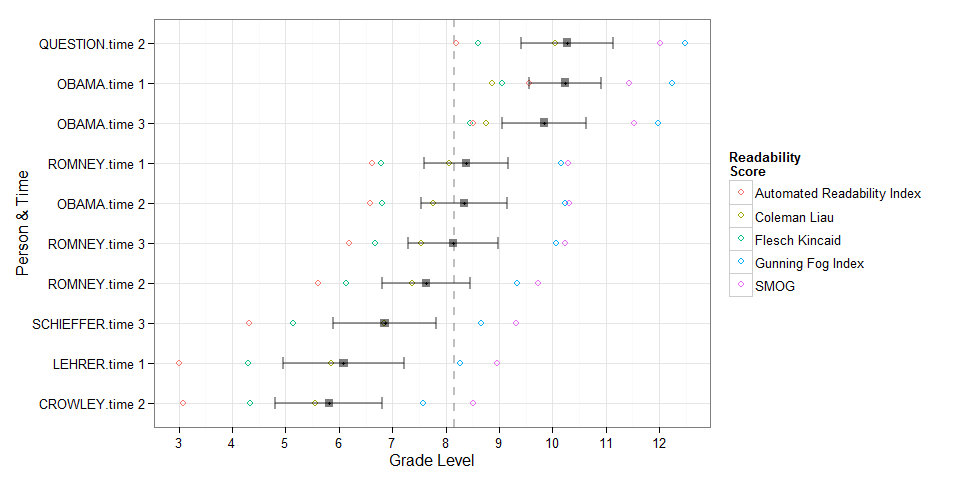
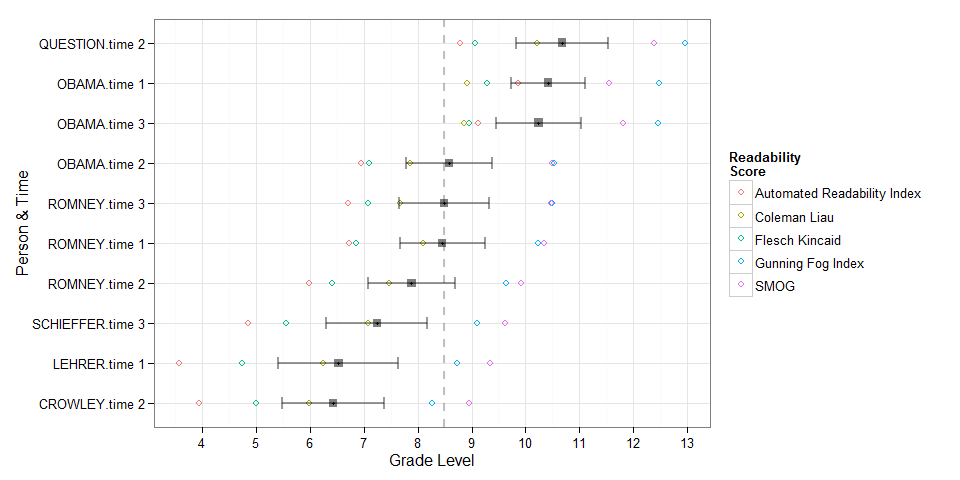
updated readme after switch to **NLP**/**openNLP** in **syllable**  Reference to: * `readability_word_stats` and `readability_word_stats_by` used **stringi**'s   sentence detection.  THis was not accurate as seen:   http://stackoverflow.com/q/31865511/1000343.  The package now utilizes   **NLP**/**o

diff --git a/README.md b/README.md
@@ -55,40 +55,30 @@ Examples
     if (!require("pacman")) install.packages("pacman")
     pacman::p_load(syllable, readability)
 
-    ## 
-    ## readability installed
-
-    ## Warning in FUN(X[[i]], ...): restarting interrupted promise evaluation
-
-    ## Warning in FUN(X[[i]], ...): internal error -3 in R_decompress1
-
-    ## Warning in pacman::p_load(syllable, readability): Failed to install/load:
-    ## readability
-
     (x <- with(presidential_debates_2012, readability(dialogue, list(person, time))))
 
     ##        person   time Flesch_Kincaid Gunning_Fog_Index Coleman_Liau SMOG
-    ##  1:  QUESTION time 2            8.6              12.5         10.1 12.0
-    ##  2:     OBAMA time 1            9.1              12.2          8.9 11.4
-    ##  3:     OBAMA time 3            8.5              12.0          8.8 11.5
-    ##  4:    ROMNEY time 1            6.8              10.2          8.1 10.3
-    ##  5:     OBAMA time 2            6.8              10.2          7.8 10.3
-    ##  6:    ROMNEY time 3            6.7              10.1          7.5 10.2
-    ##  7:    ROMNEY time 2            6.1               9.3          7.4  9.7
-    ##  8: SCHIEFFER time 3            5.1               8.7          6.8  9.3
-    ##  9:    LEHRER time 1            4.3               8.3          5.9  9.0
-    ## 10:   CROWLEY time 2            4.3               7.6          5.6  8.5
+    ##  1:  QUESTION time 2            9.1              13.0         10.2 12.4
+    ##  2:     OBAMA time 1            9.3              12.5          8.9 11.5
+    ##  3:     OBAMA time 3            8.9              12.5          8.9 11.8
+    ##  4:     OBAMA time 2            7.1              10.5          7.9 10.5
+    ##  5:    ROMNEY time 3            7.1              10.5          7.7 10.5
+    ##  6:    ROMNEY time 1            6.9              10.2          8.1 10.3
+    ##  7:    ROMNEY time 2            6.4               9.6          7.5  9.9
+    ##  8: SCHIEFFER time 3            5.6               9.1          7.1  9.6
+    ##  9:    LEHRER time 1            4.7               8.7          6.2  9.3
+    ## 10:   CROWLEY time 2            5.0               8.3          6.0  9.0
     ##     Automated_Readability_Index Average_Grade_Level
-    ##  1:                         8.2                10.3
-    ##  2:                         9.6                10.2
-    ##  3:                         8.5                 9.8
-    ##  4:                         6.6                 8.4
-    ##  5:                         6.6                 8.3
-    ##  6:                         6.2                 8.1
-    ##  7:                         5.6                 7.6
-    ##  8:                         4.3                 6.9
-    ##  9:                         3.0                 6.1
-    ## 10:                         3.1                 5.8
+    ##  1:                         8.8                10.7
+    ##  2:                         9.9                10.4
+    ##  3:                         9.1                10.2
+    ##  4:                         7.0                 8.6
+    ##  5:                         6.7                 8.5
+    ##  6:                         6.7                 8.5
+    ##  7:                         6.0                 7.9
+    ##  8:                         4.9                 7.2
+    ##  9:                         3.6                 6.5
+    ## 10:                         3.9                 6.4
 
     plot(x)
 
